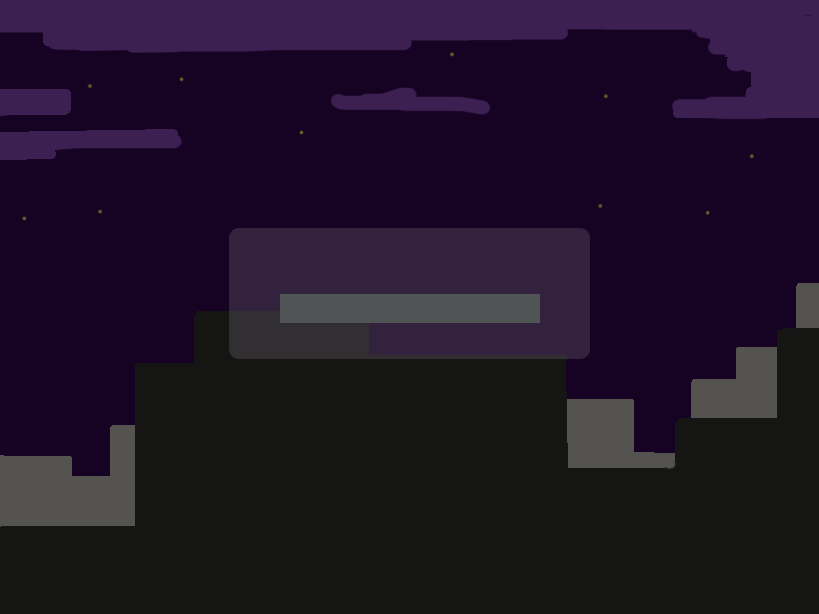
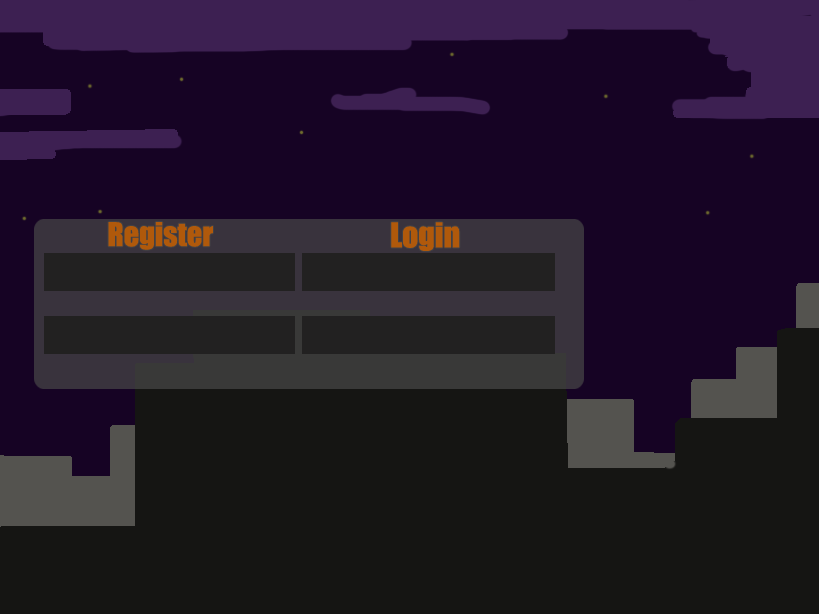
Correción del lobby y maquetación

Changed region(s): [[0.0305, 0.3404, 0.7326, 0.6498]]

diff --git a/ffthAPIREST/src/main/resources/static/nameMenu.js b/ffthAPIREST/src/main/resources/static/nameMenu.js
@@ -114,8 +114,8 @@ class nameMenu extends Phaser.Scene {
 
 		this.textoSalir = this.add.text(50, 730, "ESC to exit", { fill: '#F4FFF3', font: '24px Impact', align: 'center'});
 
-		this.textoVersion = this.add.text(340, 300, "What's your name?", { fill: '#FFAC00', font: '48px Impact', align: 'center'});
-		this.textoVersion = this.add.text(390, 415, "Press ENTER to search a match", { fill: '#F4FFF3', font: '20px Impact', align: 'center'});
+		this.textoVersion = this.add.text(210, 210, "What's your name?", { fill: '#FFAC00', font: '48px Impact', align: 'center'});
+		this.textoVersion = this.add.text(250, 500, "Press ENTER to search a match", { fill: '#F4FFF3', font: '20px Impact', align: 'center'});
 		this.textoVersion = this.add.text(50, 50,   "Online Mode", { fill: '#F4FFF3', font: '20px Impact', align: 'center'});
 		
 		

diff --git a/ffthAPIREST/target/classes/static/nameMenu.js b/ffthAPIREST/target/classes/static/nameMenu.js
@@ -114,8 +114,8 @@ class nameMenu extends Phaser.Scene {
 
 		this.textoSalir = this.add.text(50, 730, "ESC to exit", { fill: '#F4FFF3', font: '24px Impact', align: 'center'});
 
-		this.textoVersion = this.add.text(340, 300, "What's your name?", { fill: '#FFAC00', font: '48px Impact', align: 'center'});
-		this.textoVersion = this.add.text(390, 415, "Press ENTER to search a match", { fill: '#F4FFF3', font: '20px Impact', align: 'center'});
+		this.textoVersion = this.add.text(210, 210, "What's your name?", { fill: '#FFAC00', font: '48px Impact', align: 'center'});
+		this.textoVersion = this.add.text(250, 500, "Press ENTER to search a match", { fill: '#F4FFF3', font: '20px Impact', align: 'center'});
 		this.textoVersion = this.add.text(50, 50,   "Online Mode", { fill: '#F4FFF3', font: '20px Impact', align: 'center'});
 		
 		

diff --git a/ffthAPIREST/src/main/java/es/juegosenred/backend/fightforthehood/WebsocketPuntuacionHandler.java b/ffthAPIREST/src/main/java/es/juegosenred/backend/fightforthehood/WebsocketPuntuacionHandler.java
@@ -1,3 +1,5 @@
+
+
 package es.juegosenred.backend.fightforthehood;
 
 import java.io.IOException;
@@ -35,14 +37,13 @@ public class WebsocketPuntuacionHandler extends TextWebSocketHandler {
 		System.out.println("Session closed: " + session.getId());
 		sessions.remove(session.getId());
 		
-		ParesDeUsuariosEnLaMismaPartida.clear();
 		BorrarSesionesDeDosEnDos(session);	
 	}
 	
 	@Override
 	protected void handleTextMessage(WebSocketSession session, TextMessage message) throws Exception {
 		
-		//System.out.println("Message received: " + message.getPayload());
+		System.out.println("Message received: " + message.getPayload());
 		JsonNode node = mapper.readTree(message.getPayload());
 		
 		SelectordeTipodeMensaje(session, node);
@@ -57,8 +58,8 @@ public class WebsocketPuntuacionHandler extends TextWebSocketHandler {
 				ParesDeUsuariosEnLaMismaPartida.put(i.get(0).getId(), i);
 				ParesDeUsuariosEnLaMismaPartida.put(i.get(1).getId(), i);
 				IsContained=true;
-				//System.out.println(ParesDeUsuariosEnLaMismaPartida.get(i.get(0).getId()));
-				//System.out.println(ParesDeUsuariosEnLaMismaPartida.get(i.get(1).getId()));
+				System.out.println(ParesDeUsuariosEnLaMismaPartida.get(i.get(0).getId()));
+				System.out.println(ParesDeUsuariosEnLaMismaPartida.get(i.get(1).getId()));
 			}	
 		}
 		
@@ -97,7 +98,7 @@ public class WebsocketPuntuacionHandler extends TextWebSocketHandler {
 	
 	private void sendHostToClient(WebSocketSession session, Object newNode) throws IOException {
 
-		//System.out.println("Message sent: " + newNode.toString());
+		System.out.println("Message sent: " + newNode.toString());
 		List<WebSocketSession> participantes = ParesDeUsuariosEnLaMismaPartida.get(session.getId());
 			if(participantes.get(0).equals(session)) {
 				for(WebSocketSession participant : participantes){
